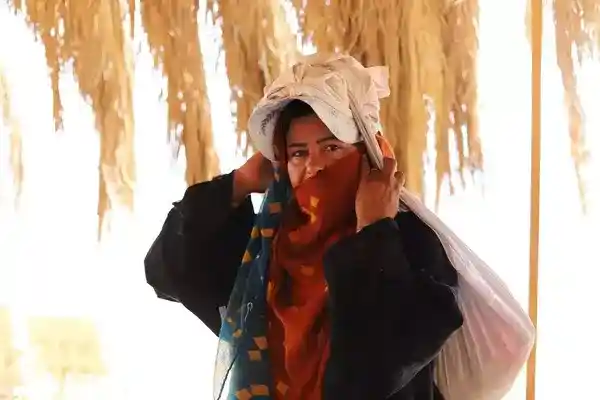
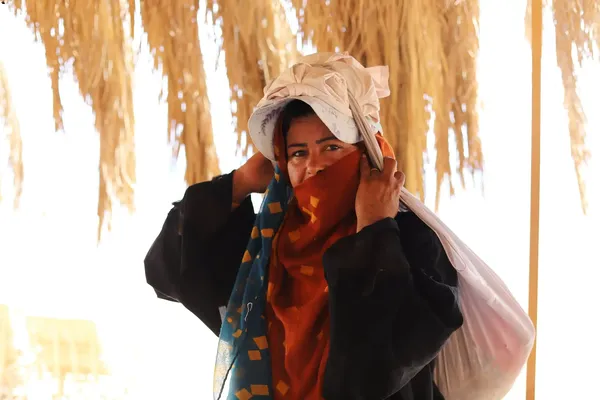
enhanced the img's quality in desktop

diff --git a/src/pages/home/homeResponsive/desktopHomeResponsive/DesktopHome.jsx b/src/pages/home/homeResponsive/desktopHomeResponsive/DesktopHome.jsx
@@ -12,7 +12,7 @@ const DesktopHome = ({ selectedImage, currentIndex, handleSwipeLeft, handleSwipe
                 <div className='home__grid'>
                     {Data.map(({ img, id, img_300px, img_600px, img_900px }, index) => (
                         <div key={id} className='grid__item' onClick={() => openPreview(img, index)}>
-                            <img src={img} alt='sass' effect='blur' srcSet={[`${img_300px}?w=300&format=webp 300w`]}
+                            <img src={img} alt='sass' effect='blur' srcSet={[`${img_900px}?w=900&format=webp 900w`]}
                             />
                         </div>
                     ))}
